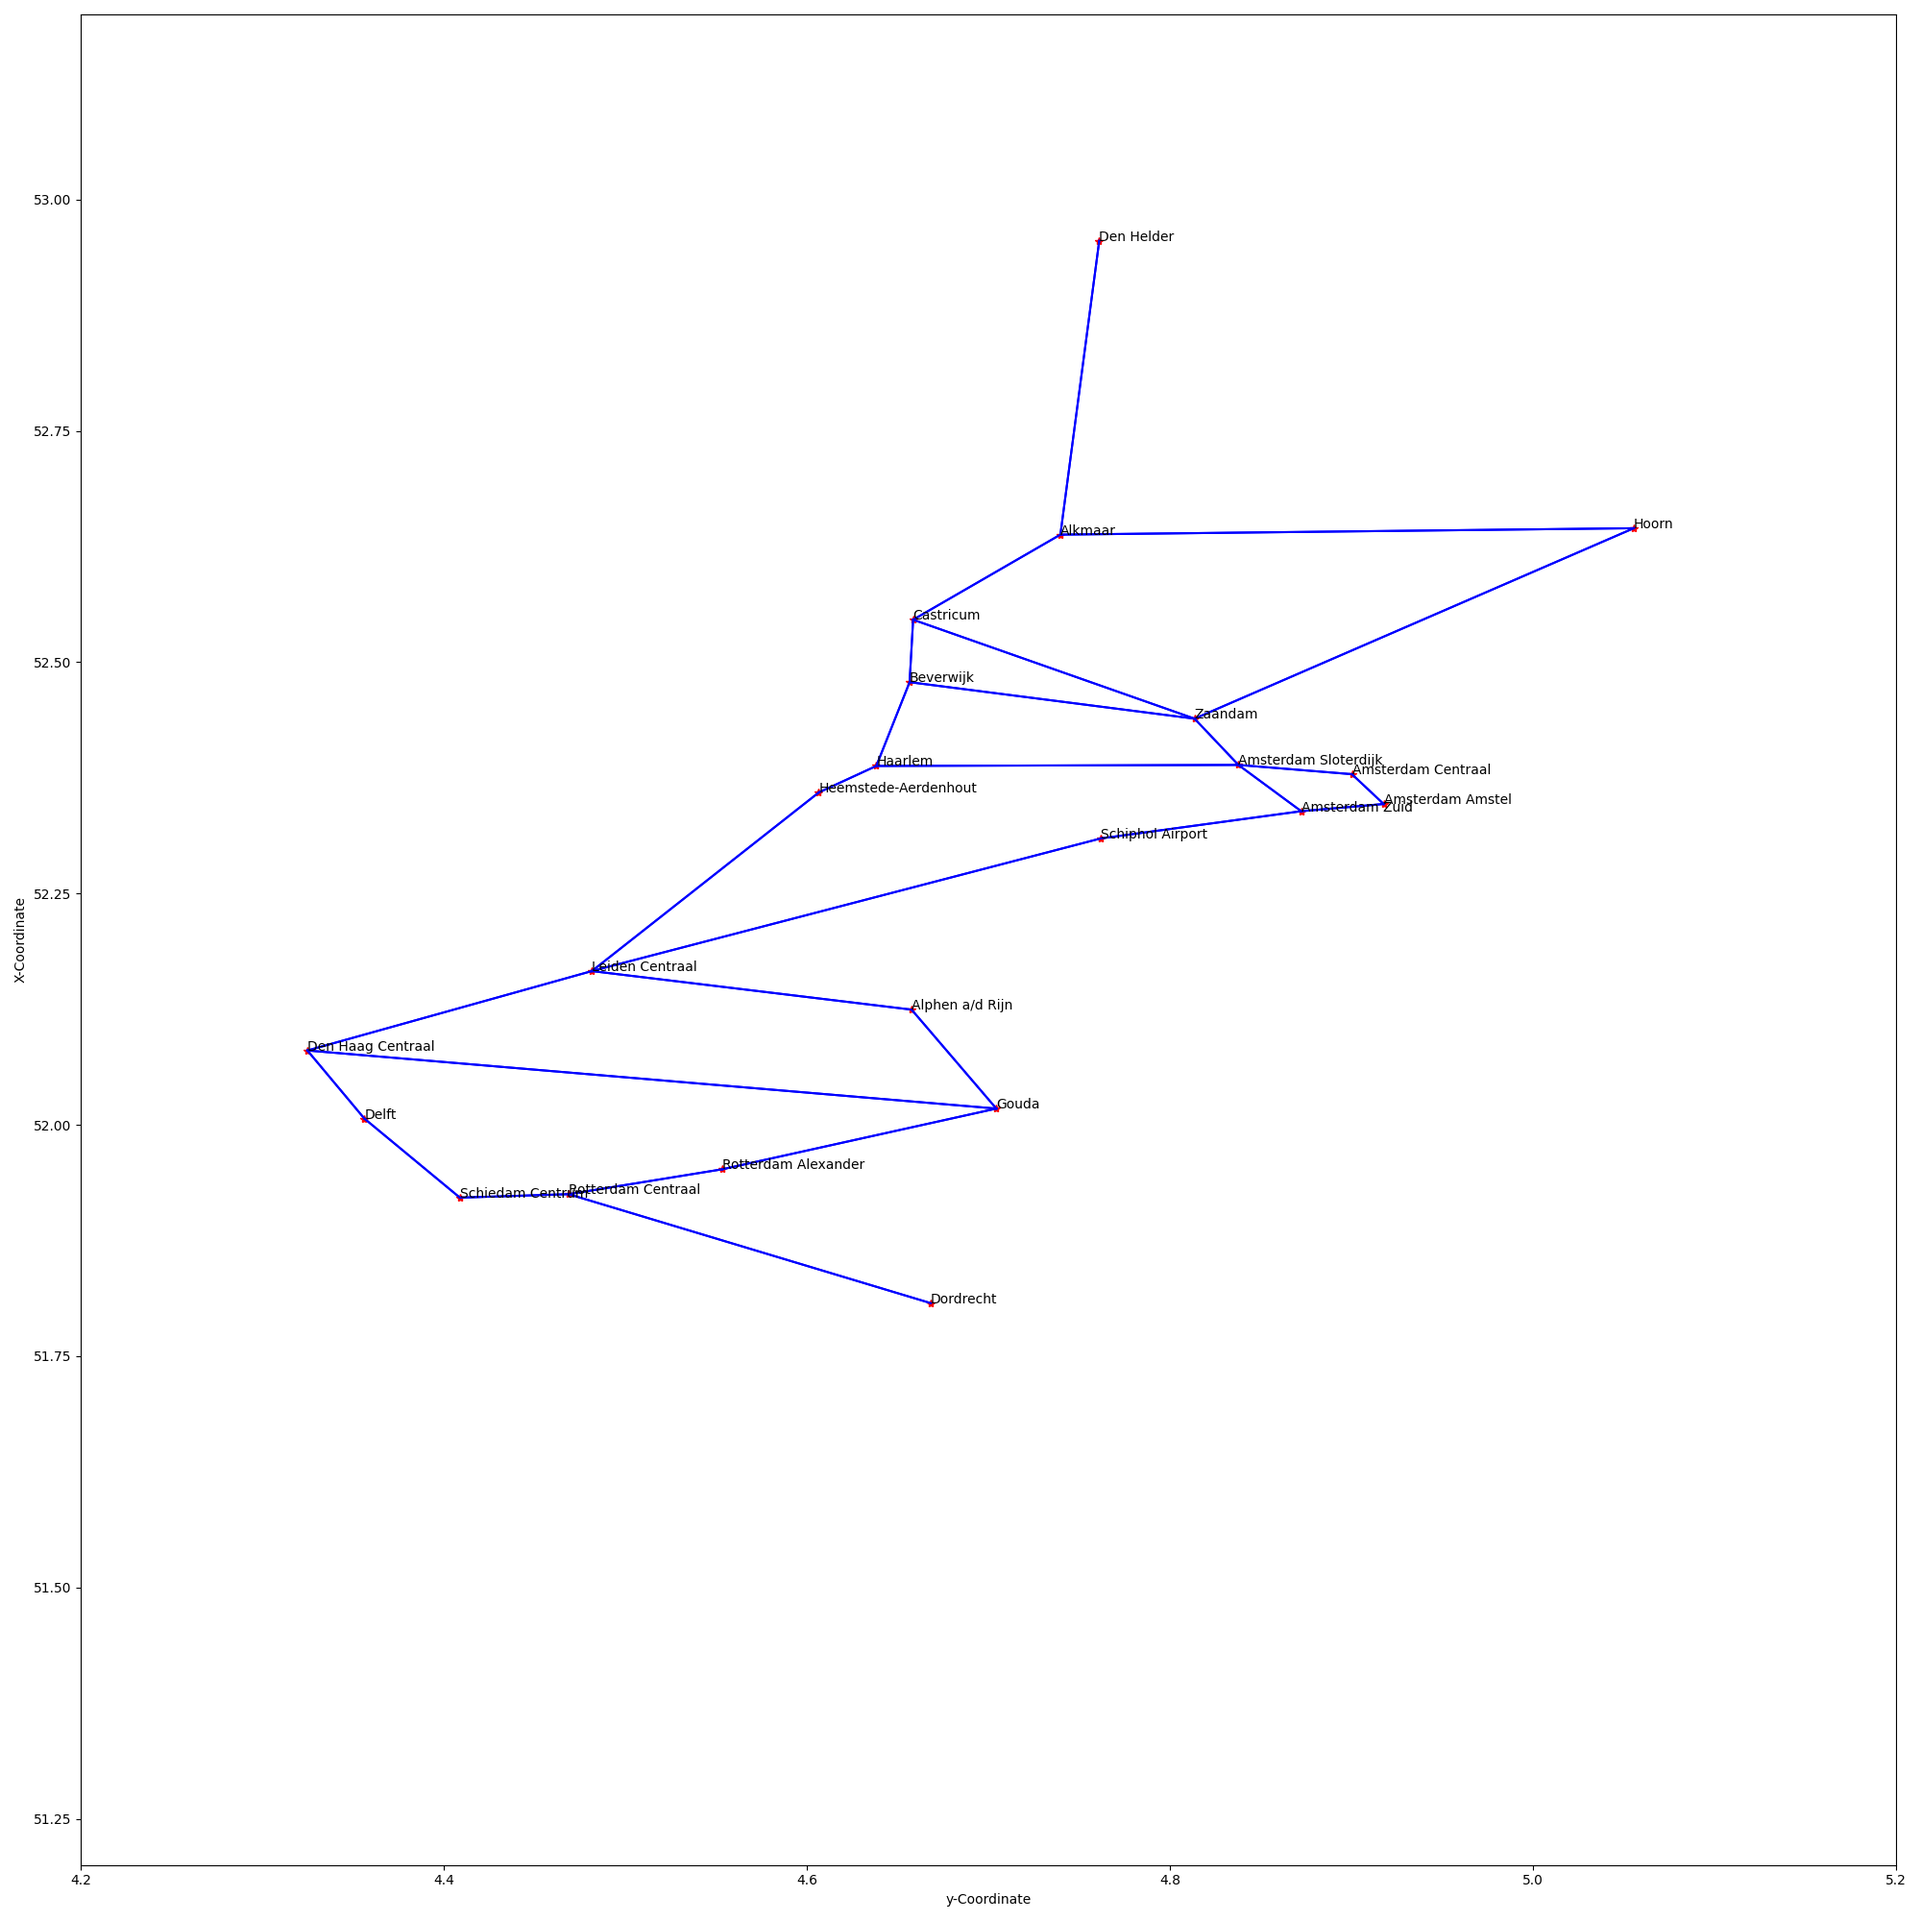
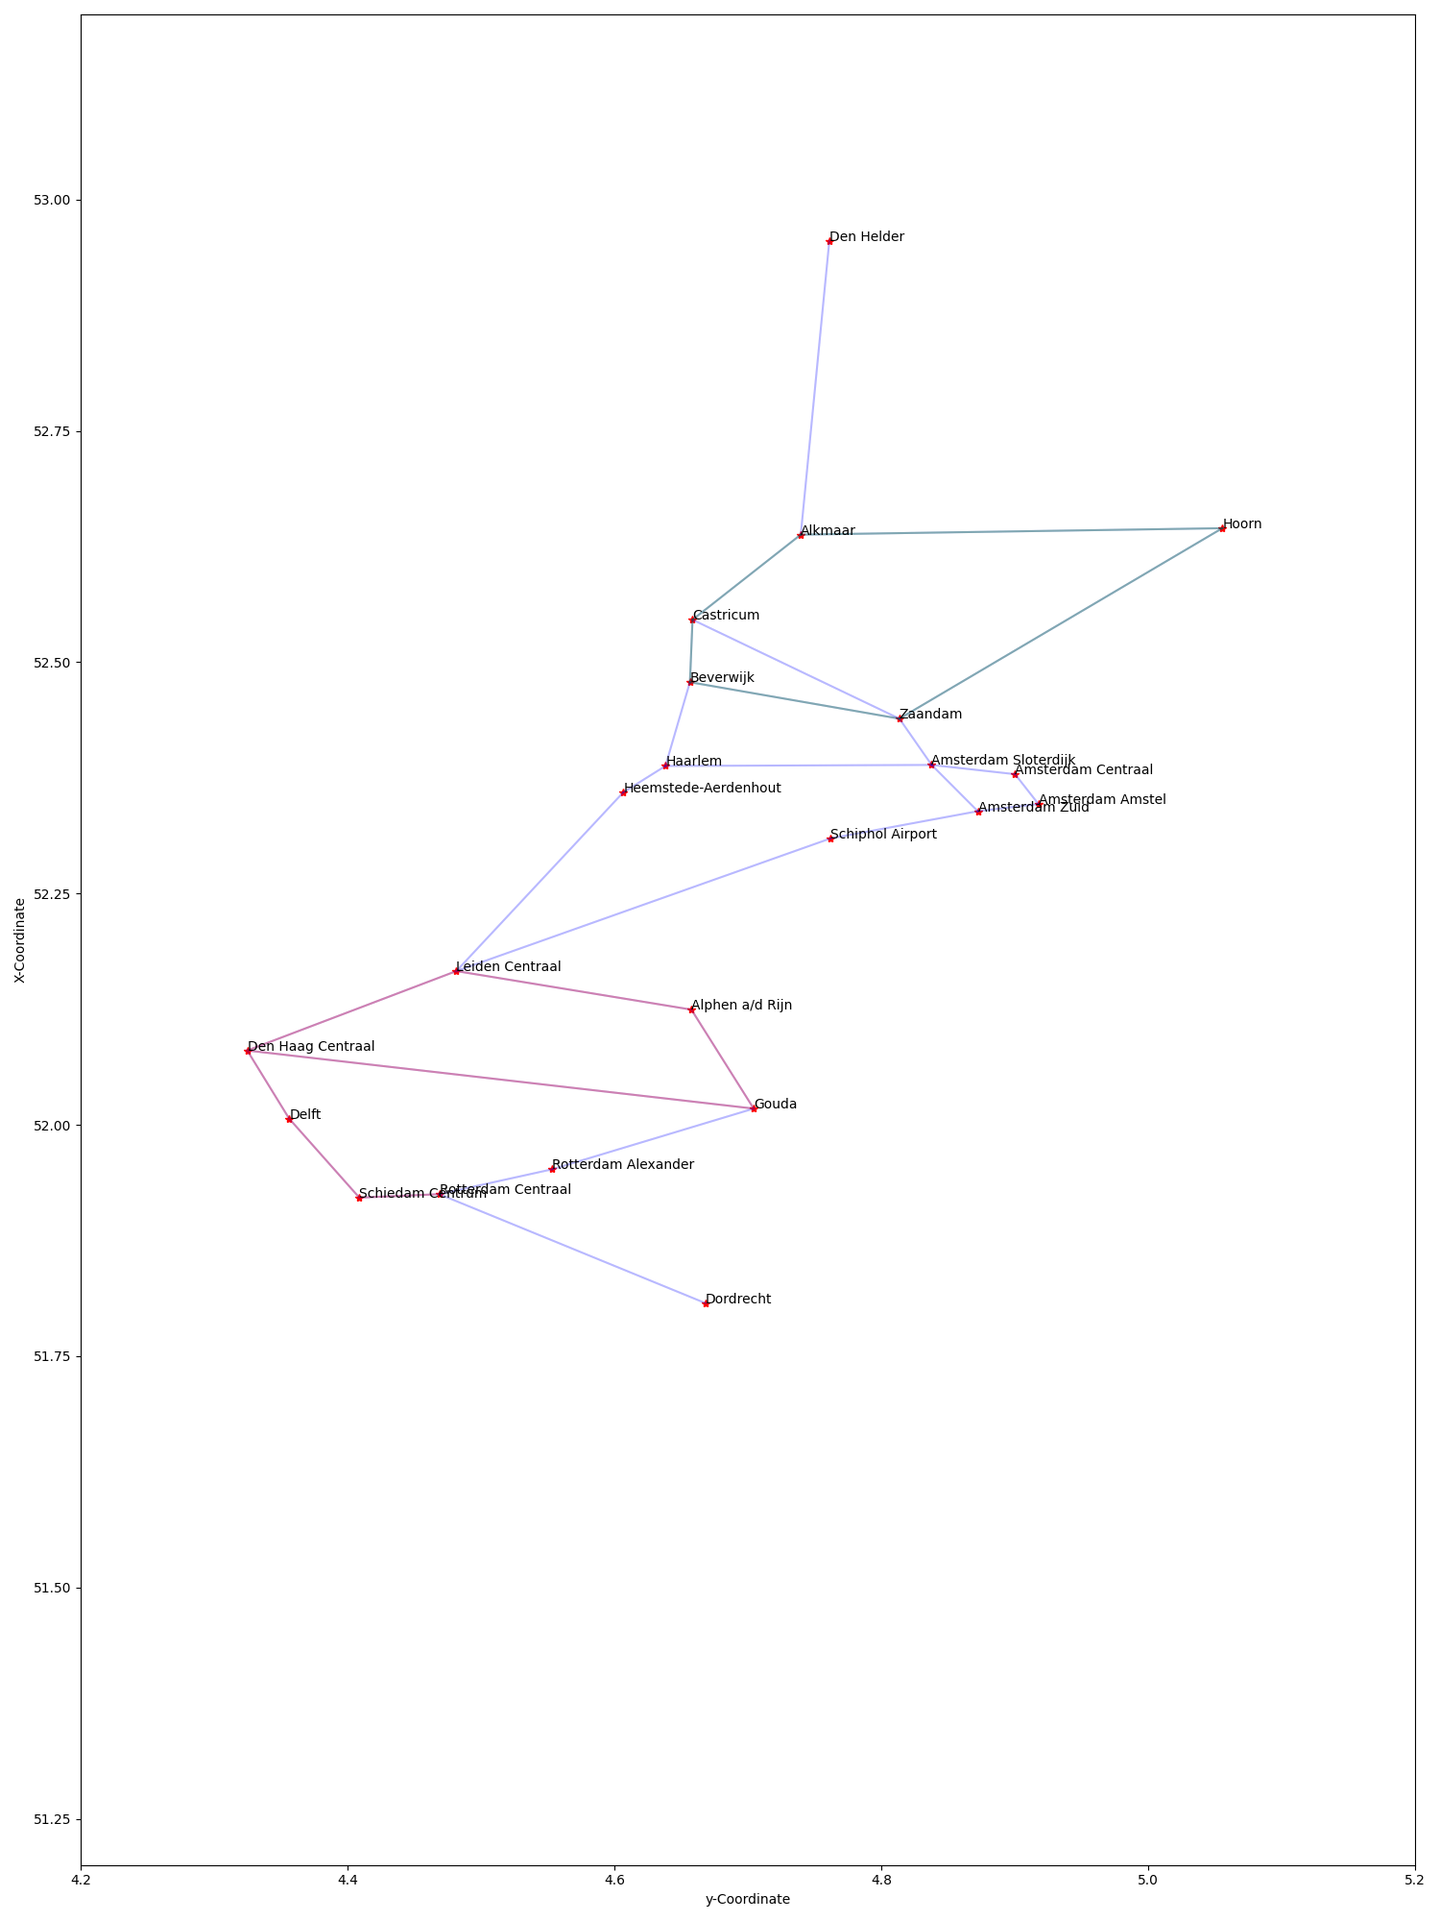
visualisation random

diff --git a/visualisation.py b/visualisation.py
@@ -1,35 +1,54 @@
 import matplotlib.pyplot as plt
 
 from functions.classes.graph_class import Graph
-test_graph = Graph("csvfiles/StationsHolland.csv")
 
-plt.rcParams["figure.figsize"] = [20, 20]
-plt.rcParams["figure.autolayout"] = True
+def visualisation(graph, trajects, filename):
+    plt.rcParams["figure.figsize"] = [15, 20]
+    plt.rcParams["figure.autolayout"] = True
 
-x = []
-y = []
-name_stations = []
-for station in test_graph.all_stations:
-    x.append(float(test_graph.all_stations[station].xcoordinate))
-    y.append(float(test_graph.all_stations[station].ycoordinate))
-    name_stations.append(test_graph.all_stations[station].name)
+    x = []
+    y = []
+    name_stations = []
+    for station in graph.all_stations:
+        x.append(float(graph.all_stations[station].xcoordinate))
+        y.append(float(graph.all_stations[station].ycoordinate))
+        name_stations.append(graph.all_stations[station].name)
 
-plt.xlabel("y-Coordinate")
-plt.ylabel("X-Coordinate")
+    plt.xlabel("y-Coordinate")
+    plt.ylabel("X-Coordinate")
 
-plt.plot(y, x, 'r*')
+    plt.plot(y, x, 'r*')
 
-for name in name_stations:
-    connections = list(test_graph.all_stations[name].time.keys())
-    index_first_station = name_stations.index(name)
-    for connection in connections:
-        index_destination = name_stations.index(connection)
-        plt.plot([y[index_first_station], y[index_destination]],[x[index_first_station], x[index_destination]], 'b')
+    for name in name_stations:
+        connections = list(graph.all_stations[name].time.keys())
+        index_first_station = name_stations.index(name)
+        for connection in connections:
+            index_destination = name_stations.index(connection)
+            plt.plot([y[index_first_station], y[index_destination]],[x[index_first_station], x[index_destination]], 'b', alpha=0.1)
+    
 
-plt.axis([4.2, 5.2, 51.2, 53.2])
+    colors = ['g', 'r', 'c', 'm', 'y', 'k', 'w']
+    
+    i = 0 
+    linewidth=1
+    for traject in trajects:
+        color = colors[i]
+        for station in range(len(traject) - 1):
+            index_first_station = name_stations.index(traject[station])
+            index_next_station =  name_stations.index(traject[station + 1])
+            plt.plot([y[index_first_station], y[index_next_station]],[x[index_first_station], x[index_next_station]], color,linewidth=linewidth, alpha=0.3)
+        if i > 6:
+            i = 0
+        else:
+            i += 1
+        linewidth += 2
 
-for y, x, s in zip(y, x, name_stations):
-    plt.text(y, x, s)
+
+    plt.axis([4.2, 5.2, 51.2, 53.2])
+
+    for y, x, s in zip(y, x, name_stations):
+        plt.text(y, x, s)
 
 
-plt.savefig("testplotnew.png")
+    plt.savefig(filename)
+

diff --git a/functions/heuristics/random_with_classes.py b/functions/heuristics/random_with_classes.py
@@ -1,9 +1,10 @@
 import random
 import copy
 from functions.calculation import calculate_quality
+from visualisation import visualisation
 def random_function_classes(graph, MAX_AMOUNT_TRAJECTS, MAX_TIME):
-    
     all_connections = graph.all_stations
+    total_connections = len(all_connections)
     check_connections_left = copy.deepcopy(all_connections)
     trajects = []
     total_time_traject = 0
@@ -46,6 +47,9 @@ def random_function_classes(graph, MAX_AMOUNT_TRAJECTS, MAX_TIME):
     connections_left = 0
     for i in check_connections_left:
         connections_left += len(check_connections_left[i].time)
-    print(connections_left)
 
-    return check_connections_left
+    amount_of_connections = total_connections - connections_left
+    quality = calculate_quality(amount_of_connections, total_connections, total_time_traject, MAX_AMOUNT_TRAJECTS)
+  
+    visualisation(graph, trajects, 'random_visualisation.png')
+    return quality

diff --git a/functions/classes/graph_class.py b/functions/classes/graph_class.py
@@ -16,6 +16,5 @@ class Graph():
         
             for row in reader:
                 all_stations[row['station']] = Station(row['station'], row['x'], row['y'])
-        print(all_stations)
         return all_stations
 
